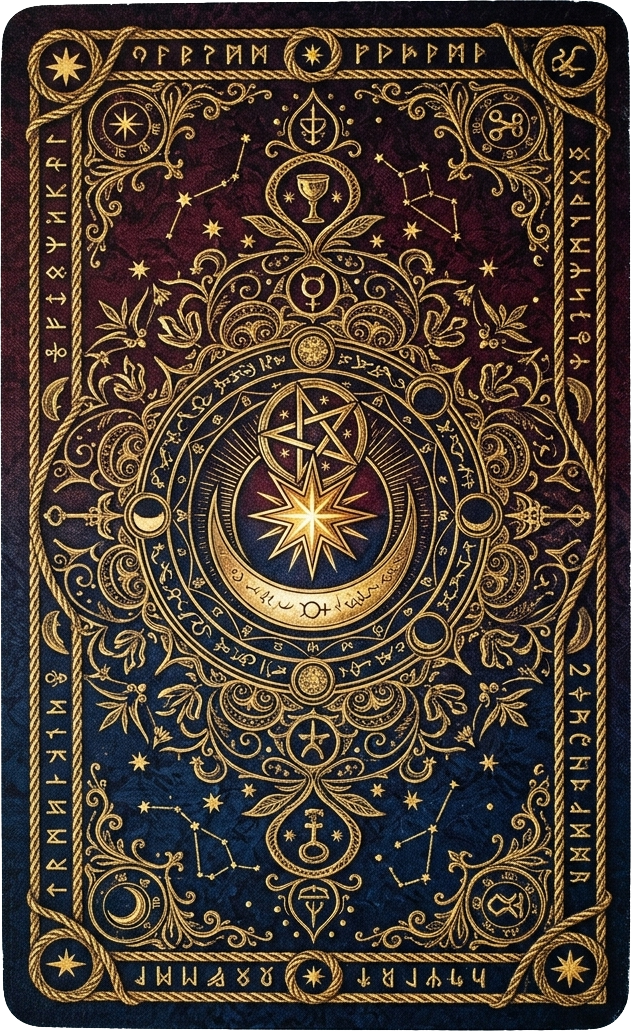
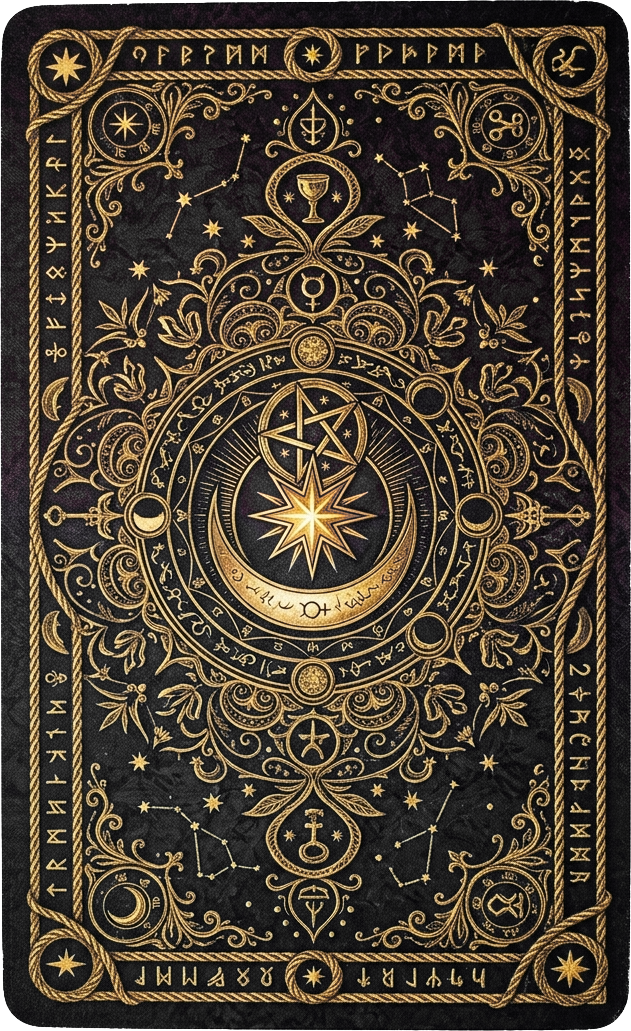
Polish card selection and related UI

diff --git a/static/index.html b/static/index.html
@@ -366,6 +366,7 @@
       appearance: none;
       background: none;
       border: 0;
+      border-radius: 8px;
       padding: 0;
       width: 92px;
       height: 160px;
@@ -375,7 +376,7 @@
       top: var(--fan-y);
       transform: rotate(var(--fan-angle));
       transform-origin: center bottom;
-      outline: 4px solid transparent;
+      outline: 8px solid transparent;
       outline-offset: -4px;
       transition: outline-color .15s, opacity .3s;
     }
@@ -786,19 +787,20 @@
     }
     #history-modal.open { display: flex; }
     #history-box {
-      background: var(--surface); border: 1px solid var(--border);
-      border-radius: 16px; padding: 28px 24px; width: min(94vw, 480px);
+      background: linear-gradient(135deg, #16122a, #1e1836);
+      border: 1px solid rgba(196,169,107,.4);
+      border-radius: 18px; padding: 36px 32px; width: min(90vw, 480px);
       max-height: 80vh; display: flex; flex-direction: column;
-      position: relative;
+      position: relative; text-align: center;
     }
     #history-box h3 { font-family: 'Noto Sans KR',sans-serif; color: var(--gold); margin-bottom: 6px; }
     #history-balance {
       font-size: .85rem; color: var(--text-dim);
       margin-bottom: 16px; padding-bottom: 14px;
-      border-bottom: 1px solid var(--border);
+      border-bottom: 1px solid rgba(196,169,107,.25);
     }
     #history-balance strong { color: var(--gold); font-size: 1.1rem; }
-    #history-list { overflow-y: auto; flex: 1; }
+    #history-list { overflow-y: auto; flex: 1; text-align: left; }
     .history-row {
       display: grid; grid-template-columns: 64px 1fr auto auto auto;
       gap: 6px 9px; align-items: center;

diff --git a/app.py b/app.py
@@ -665,7 +665,6 @@ def render_card_detail(lang: str, slug: str) -> str:
   {rev_block}
   {topic_block}
   {advice_block}
-  <p style="text-align:center"><a class="cta" href="{_e(home_path(lang))}">{_e(ui['cta_card'])}</a></p>
   <p style="text-align:center;font-size:.85rem"><a href="{_e(cards_path(lang))}">{_e(ui['back_all'])}</a></p>
   {pager}
 """
